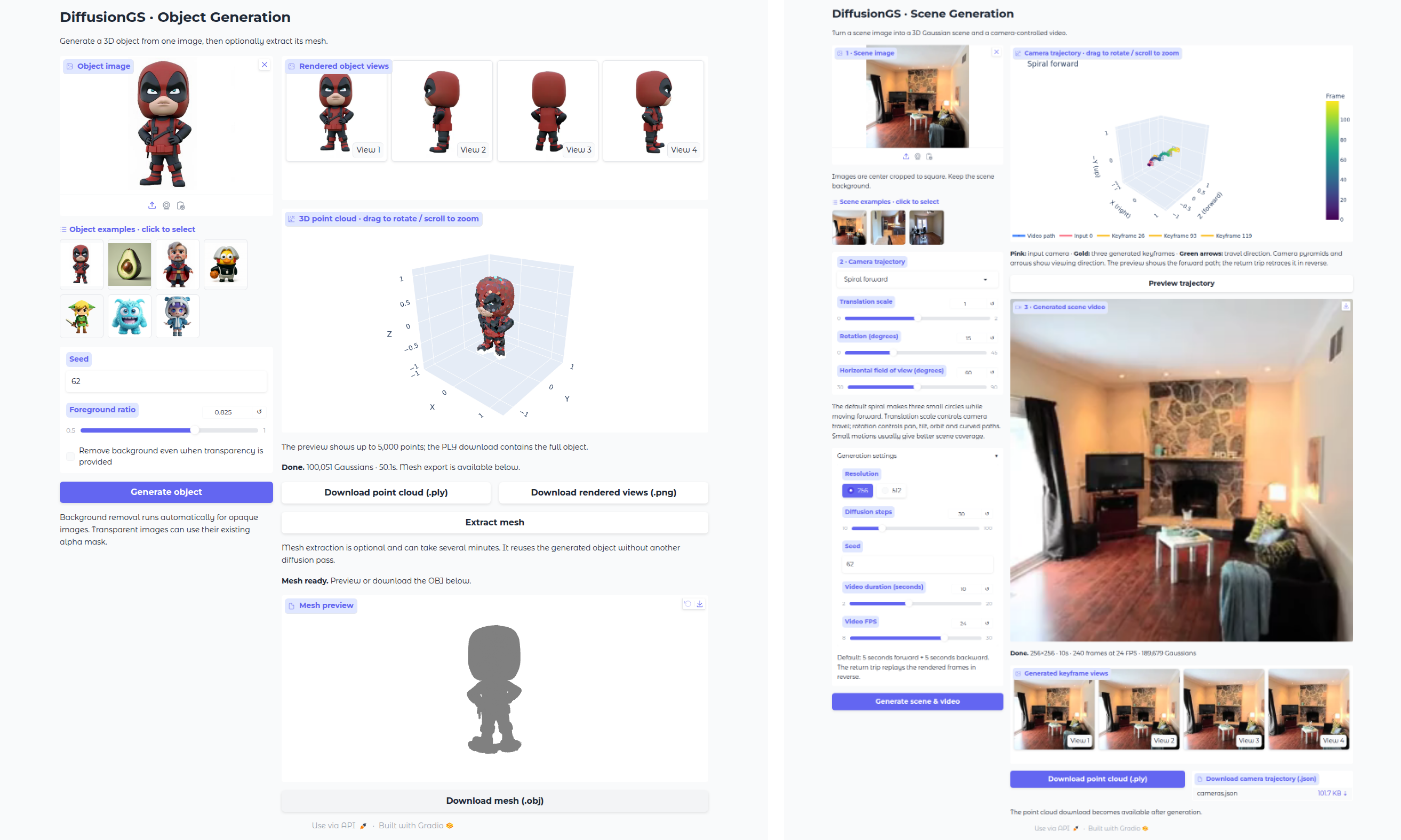
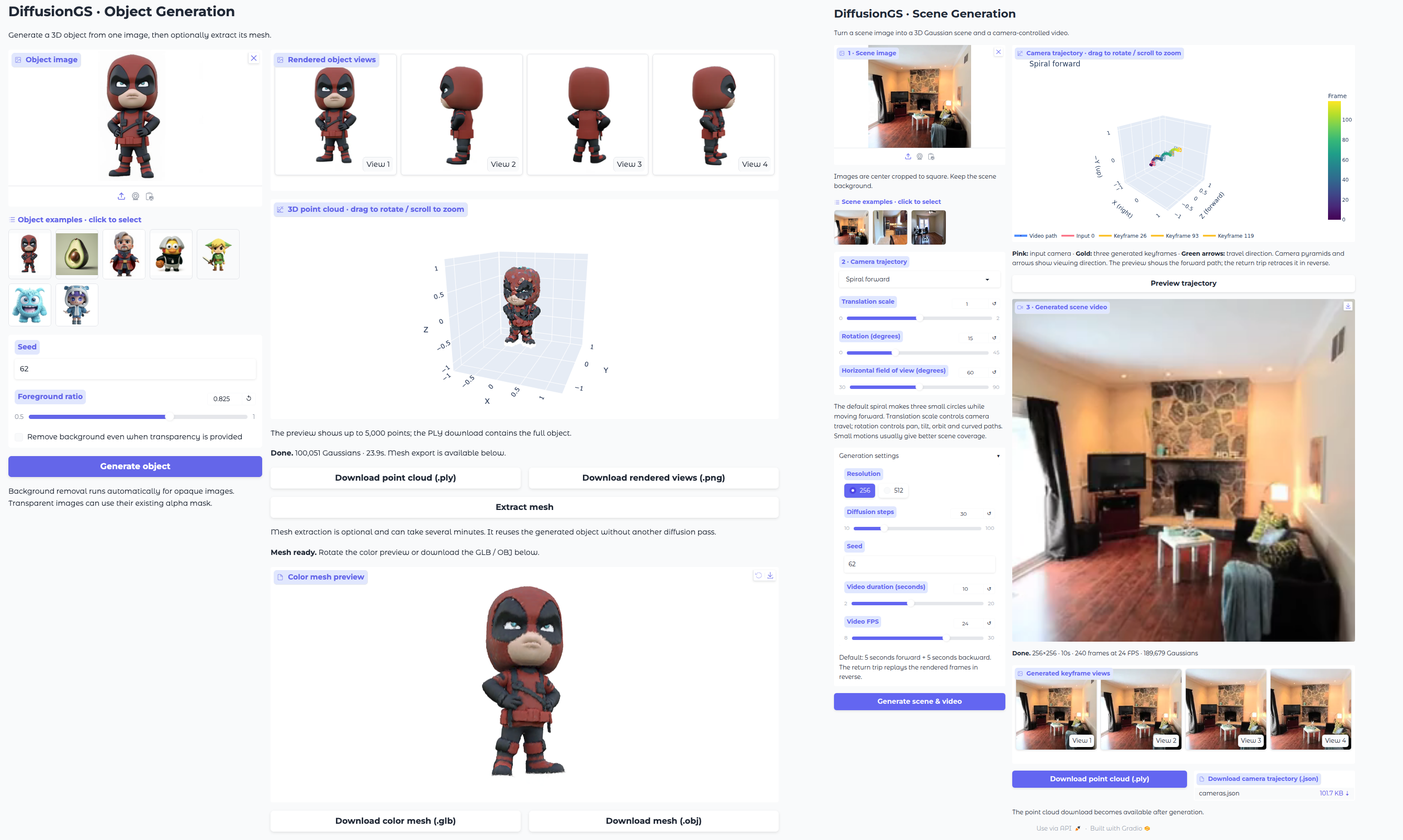
Refresh online demo screenshots and synchronize Space documentation

diff --git a/huggingface/deploy.py b/huggingface/deploy.py
@@ -25,7 +25,7 @@ def deploy(wheel):
     object_files += [(f"wheels/{wheel.name}", wheel),
                      ("wheels/RASTERIZER_LICENSE.md", ROOT / "submodules/diff-gaussian-rasterization/LICENSE.md")]
     screenshots = [(f"img/demos/{name}.png", ROOT / f"img/demos/{name}.png")
-                   for name in ("object_demo", "scene_demo")]
+                   for name in ("object_demo", "scene_demo", "online_demos")]
     for repo, files in (
         ("CaiYuanhao/DiffusionGS-Object", object_files + screenshots),
         ("CaiYuanhao/DiffusionGS-Scene", screenshots + [(name, ROOT / "huggingface/scene" / name)

diff --git a/huggingface/object/README.md b/huggingface/object/README.md
@@ -21,7 +21,7 @@ tags:
 
 # DiffusionGS · Object Generation
 
-Generate a 3D object from one reference image. Upload an image or choose an example, click **Generate object**, then preview and download the rendered views and Gaussian point cloud. **Extract mesh** exports an OBJ from the generated object.
+Generate a 3D object from one reference image. Upload an image or choose an example, click **Generate object**, then preview and download the rendered views and Gaussian point cloud. **Extract mesh** creates a colored mesh preview with GLB and OBJ downloads.
 
 [Scene demo](https://huggingface.co/spaces/CaiYuanhao/DiffusionGS-Scene) · [GitHub](https://github.com/caiyuanhao1998/Open-DiffusionGS) · [Models](https://huggingface.co/CaiYuanhao/DiffusionGS) · [Paper](https://arxiv.org/abs/2411.14384)
 
